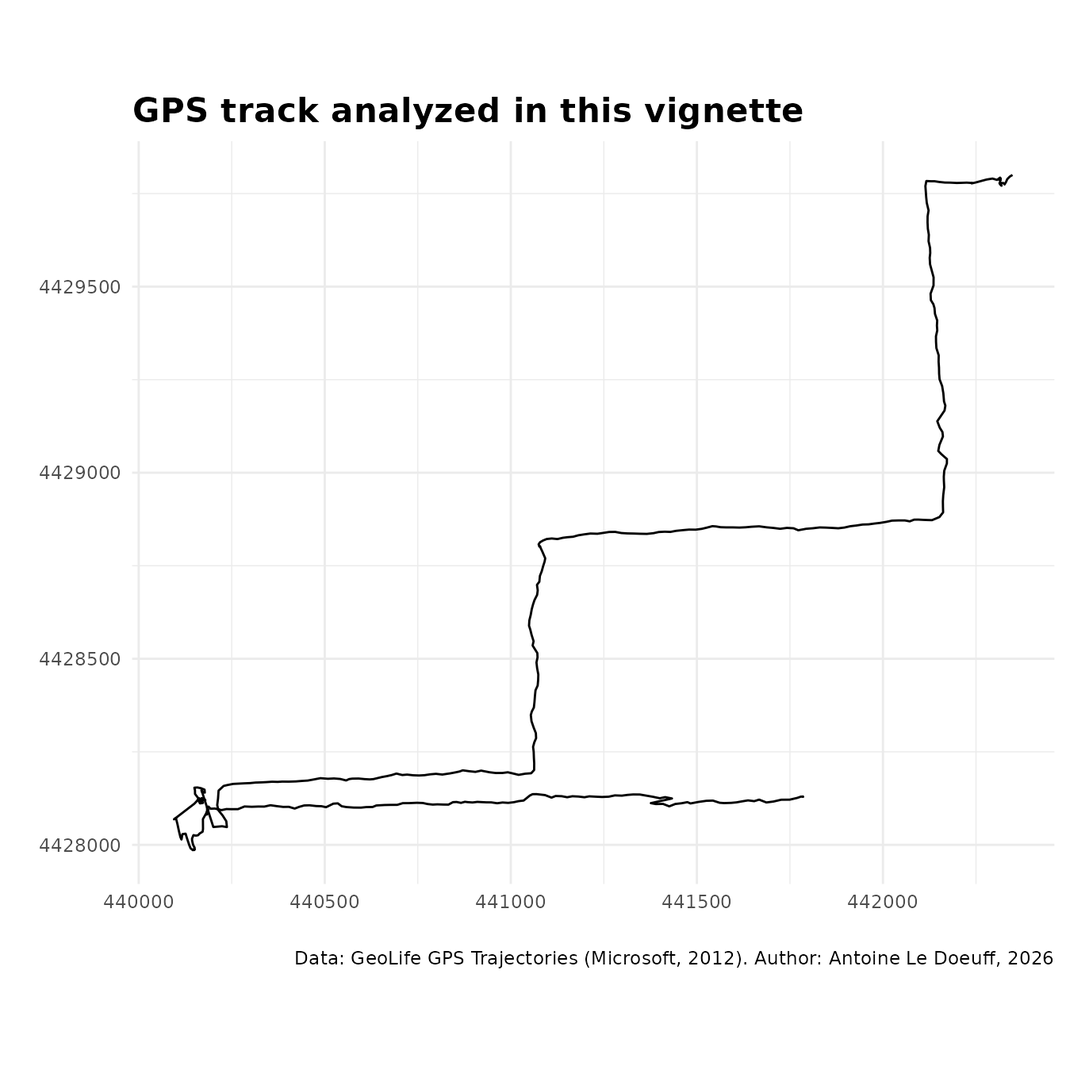
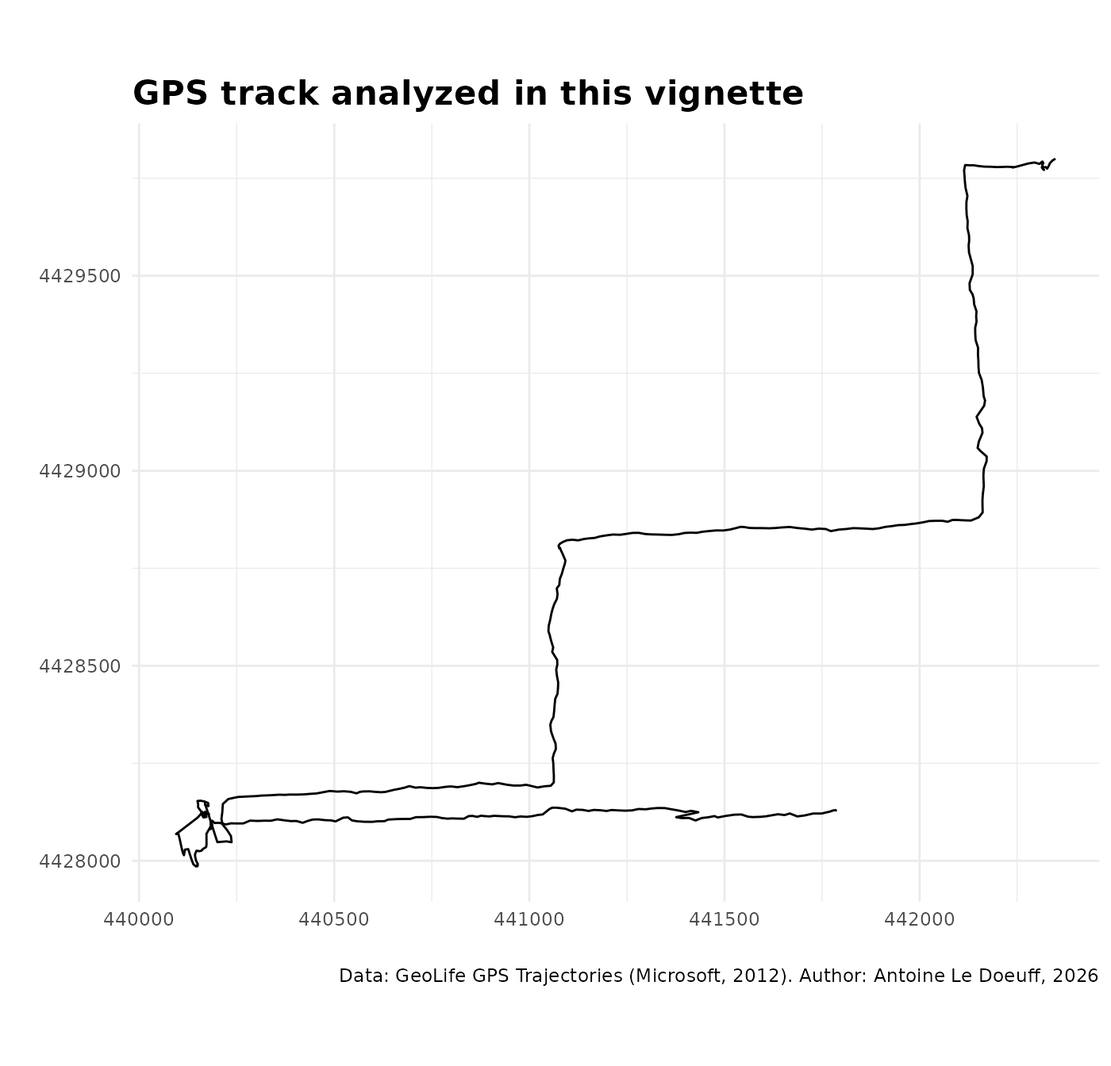
Deploying to gh-pages from @ MiboraMinima/stdbscan@7bb9fe0d11328031b59ec2f44600ff38f1b28a07 🚀

diff --git a/articles/stop-identification.html b/articles/stop-identification.html
@@ -99,13 +99,10 @@ the relevant variables.</p>
 <span><span class="co">#&gt; 3 2008-10-23 02:53:15 441782.8 4428129</span></span>
 <span><span class="co">#&gt; 4 2008-10-23 02:53:20 441780.1 4428130</span></span>
 <span><span class="co">#&gt; 5 2008-10-23 02:53:25 441769.6 4428126</span></span>
-<span><span class="co">#&gt; 6 2008-10-23 02:53:30 441749.3 4428121</span></span>
-<span></span>
-<span><span class="co"># Copy source data</span></span>
-<span><span class="va">dt</span> <span class="op">&lt;-</span> <span class="va">geolife_traj</span></span></code></pre></div>
+<span><span class="co">#&gt; 6 2008-10-23 02:53:30 441749.3 4428121</span></span></code></pre></div>
 <div class="sourceCode" id="cb3"><pre class="downlit sourceCode r">
 <code class="sourceCode R"><span><span class="fu"><a href="https://ggplot2.tidyverse.org/reference/ggplot.html" class="external-link">ggplot</a></span><span class="op">(</span><span class="op">)</span> <span class="op">+</span></span>
-<span>  <span class="fu"><a href="https://ggplot2.tidyverse.org/reference/geom_path.html" class="external-link">geom_path</a></span><span class="op">(</span>data <span class="op">=</span> <span class="va">dt</span>, <span class="fu"><a href="https://ggplot2.tidyverse.org/reference/aes.html" class="external-link">aes</a></span><span class="op">(</span><span class="va">x</span>, <span class="va">y</span><span class="op">)</span><span class="op">)</span> <span class="op">+</span></span>
+<span>  <span class="fu"><a href="https://ggplot2.tidyverse.org/reference/geom_path.html" class="external-link">geom_path</a></span><span class="op">(</span>data <span class="op">=</span> <span class="va">geolife_traj</span>, <span class="fu"><a href="https://ggplot2.tidyverse.org/reference/aes.html" class="external-link">aes</a></span><span class="op">(</span><span class="va">x</span>, <span class="va">y</span><span class="op">)</span><span class="op">)</span> <span class="op">+</span></span>
 <span>  <span class="fu"><a href="https://ggplot2.tidyverse.org/reference/labs.html" class="external-link">labs</a></span><span class="op">(</span>x <span class="op">=</span> <span class="st">""</span>, y <span class="op">=</span> <span class="st">""</span>,</span>
 <span>    title <span class="op">=</span> <span class="st">"GPS track analyzed in this vignette"</span>,</span>
 <span>    caption <span class="op">=</span> <span class="st">"Data: GeoLife GPS Trajectories (Microsoft, 2012). Author: Antoine Le Doeuff, 2026"</span>,</span>
@@ -113,7 +110,7 @@ the relevant variables.</p>
 <span>  <span class="fu"><a href="https://ggplot2.tidyverse.org/reference/coord_fixed.html" class="external-link">coord_equal</a></span><span class="op">(</span><span class="op">)</span> <span class="op">+</span></span>
 <span>  <span class="fu"><a href="https://ggplot2.tidyverse.org/reference/ggtheme.html" class="external-link">theme_minimal</a></span><span class="op">(</span><span class="op">)</span> <span class="op">+</span></span>
 <span>  <span class="fu"><a href="https://ggplot2.tidyverse.org/reference/theme.html" class="external-link">theme</a></span><span class="op">(</span>plot.title <span class="op">=</span> <span class="fu"><a href="https://ggplot2.tidyverse.org/reference/element.html" class="external-link">element_text</a></span><span class="op">(</span>size <span class="op">=</span> <span class="fl">16</span>, face <span class="op">=</span> <span class="st">"bold"</span><span class="op">)</span><span class="op">)</span></span></code></pre></div>
-<p><img src="stop-identification_files/figure-html/unnamed-chunk-3-1.png" class="r-plt" alt="" width="672"></p>
+<p><img src="stop-identification_files/figure-html/unnamed-chunk-3-1.png" class="r-plt" alt="" width="700"></p>
 </div>
 <div class="section level2">
 <h2 id="preprocessing">Preprocessing<a class="anchor" aria-label="anchor" href="#preprocessing"></a>
@@ -121,8 +118,12 @@ the relevant variables.</p>
 <p>For <code>stdbscan</code> to work, the time variable must be numeric.
 We therefore convert it to seconds since the beginning of the track.</p>
 <div class="sourceCode" id="cb4"><pre class="downlit sourceCode r">
-<code class="sourceCode R"><span><span class="va">dt</span><span class="op">$</span><span class="va">date_time</span> <span class="op">&lt;-</span> <span class="fu"><a href="https://lubridate.tidyverse.org/reference/as_date.html" class="external-link">as_datetime</a></span><span class="op">(</span><span class="fu"><a href="https://rdrr.io/r/base/paste.html" class="external-link">paste</a></span><span class="op">(</span><span class="va">dt</span><span class="op">$</span><span class="va">date</span>, <span class="va">dt</span><span class="op">$</span><span class="va">time</span><span class="op">)</span>, tz <span class="op">=</span> <span class="st">"GMT"</span><span class="op">)</span></span>
-<span><span class="va">dt</span><span class="op">$</span><span class="va">t</span> <span class="op">&lt;-</span> <span class="fu"><a href="https://rdrr.io/r/base/numeric.html" class="external-link">as.numeric</a></span><span class="op">(</span><span class="va">dt</span><span class="op">$</span><span class="va">date_time</span> <span class="op">-</span> <span class="fu"><a href="https://rdrr.io/r/base/Extremes.html" class="external-link">min</a></span><span class="op">(</span><span class="va">dt</span><span class="op">$</span><span class="va">date_time</span><span class="op">)</span><span class="op">)</span></span></code></pre></div>
+<code class="sourceCode R"><span><span class="va">geolife_traj</span><span class="op">$</span><span class="va">date_time</span> <span class="op">&lt;-</span> <span class="fu"><a href="https://lubridate.tidyverse.org/reference/as_date.html" class="external-link">as_datetime</a></span><span class="op">(</span></span>
+<span>  <span class="fu"><a href="https://rdrr.io/r/base/paste.html" class="external-link">paste</a></span><span class="op">(</span><span class="va">geolife_traj</span><span class="op">$</span><span class="va">date</span>, <span class="va">geolife_traj</span><span class="op">$</span><span class="va">time</span><span class="op">)</span>, tz <span class="op">=</span> <span class="st">"GMT"</span></span>
+<span><span class="op">)</span></span>
+<span><span class="va">geolife_traj</span><span class="op">$</span><span class="va">t</span> <span class="op">&lt;-</span> <span class="fu"><a href="https://rdrr.io/r/base/numeric.html" class="external-link">as.numeric</a></span><span class="op">(</span></span>
+<span>  <span class="va">geolife_traj</span><span class="op">$</span><span class="va">date_time</span> <span class="op">-</span> <span class="fu"><a href="https://rdrr.io/r/base/Extremes.html" class="external-link">min</a></span><span class="op">(</span><span class="va">geolife_traj</span><span class="op">$</span><span class="va">date_time</span><span class="op">)</span></span>
+<span><span class="op">)</span></span></code></pre></div>
 </div>
 <div class="section level2">
 <h2 id="run-st-dbscan">Run ST-DBSCAN<a class="anchor" aria-label="anchor" href="#run-st-dbscan"></a>
@@ -135,14 +136,14 @@ search (or similar tuning strategy) should be used to determine optimal
 values.</p>
 <div class="sourceCode" id="cb5"><pre class="downlit sourceCode r">
 <code class="sourceCode R"><span><span class="va">clusters</span> <span class="op">&lt;-</span> <span class="fu"><a href="../reference/st_dbscan.html">st_dbscan</a></span><span class="op">(</span></span>
-<span>  x <span class="op">=</span> <span class="va">dt</span><span class="op">$</span><span class="va">x</span>,</span>
-<span>  y <span class="op">=</span> <span class="va">dt</span><span class="op">$</span><span class="va">y</span>,</span>
-<span>  t <span class="op">=</span> <span class="va">dt</span><span class="op">$</span><span class="va">t</span>,</span>
+<span>  x <span class="op">=</span> <span class="va">geolife_traj</span><span class="op">$</span><span class="va">x</span>,</span>
+<span>  y <span class="op">=</span> <span class="va">geolife_traj</span><span class="op">$</span><span class="va">y</span>,</span>
+<span>  t <span class="op">=</span> <span class="va">geolife_traj</span><span class="op">$</span><span class="va">t</span>,</span>
 <span>  eps_spatial <span class="op">=</span> <span class="fl">3</span>, <span class="co"># meters</span></span>
 <span>  eps_temporal <span class="op">=</span> <span class="fl">30</span>, <span class="co"># seconds</span></span>
 <span>  min_pts <span class="op">=</span> <span class="fl">3</span></span>
 <span><span class="op">)</span></span>
-<span><span class="va">dt</span><span class="op">$</span><span class="va">clust</span> <span class="op">&lt;-</span> <span class="fu"><a href="https://rdrr.io/r/base/factor.html" class="external-link">as.factor</a></span><span class="op">(</span><span class="va">clusters</span><span class="op">)</span></span></code></pre></div>
+<span><span class="va">geolife_traj</span><span class="op">$</span><span class="va">clust</span> <span class="op">&lt;-</span> <span class="fu"><a href="https://rdrr.io/r/base/factor.html" class="external-link">as.factor</a></span><span class="op">(</span><span class="va">clusters</span><span class="op">)</span></span></code></pre></div>
 </div>
 <div class="section level2">
 <h2 id="check-result">Check result<a class="anchor" aria-label="anchor" href="#check-result"></a>
@@ -150,20 +151,20 @@ values.</p>
 <p>We can check the number of pings in each cluster using
 <code><a href="https://rdrr.io/r/base/table.html" class="external-link">table()</a></code>.</p>
 <div class="sourceCode" id="cb6"><pre class="downlit sourceCode r">
-<code class="sourceCode R"><span><span class="fu"><a href="https://rdrr.io/r/base/table.html" class="external-link">table</a></span><span class="op">(</span><span class="va">dt</span><span class="op">$</span><span class="va">clust</span><span class="op">)</span></span>
+<code class="sourceCode R"><span><span class="fu"><a href="https://rdrr.io/r/base/table.html" class="external-link">table</a></span><span class="op">(</span><span class="va">geolife_traj</span><span class="op">$</span><span class="va">clust</span><span class="op">)</span></span>
 <span><span class="co">#&gt; </span></span>
 <span><span class="co">#&gt;  -1   1   2   3   4   5 </span></span>
 <span><span class="co">#&gt; 420   4   5  12  12  15</span></span></code></pre></div>
 <p>Clusters can be plotted directly using <code>ggplot2</code> :</p>
 <div class="sourceCode" id="cb7"><pre class="downlit sourceCode r">
 <code class="sourceCode R"><span><span class="co"># Extract stops and movements</span></span>
-<span><span class="va">dt_mvt</span> <span class="op">&lt;-</span> <span class="va">dt</span><span class="op">[</span><span class="va">dt</span><span class="op">$</span><span class="va">clust</span> <span class="op">==</span> <span class="st">"-1"</span>, <span class="op">]</span></span>
-<span><span class="va">dt_stop</span> <span class="op">&lt;-</span> <span class="va">dt</span><span class="op">[</span><span class="va">dt</span><span class="op">$</span><span class="va">clust</span> <span class="op">!=</span> <span class="st">"-1"</span>, <span class="op">]</span></span>
+<span><span class="va">geolife_traj_mvt</span> <span class="op">&lt;-</span> <span class="va">geolife_traj</span><span class="op">[</span><span class="va">geolife_traj</span><span class="op">$</span><span class="va">clust</span> <span class="op">==</span> <span class="st">"-1"</span>, <span class="op">]</span></span>
+<span><span class="va">geolife_traj_stop</span> <span class="op">&lt;-</span> <span class="va">geolife_traj</span><span class="op">[</span><span class="va">geolife_traj</span><span class="op">$</span><span class="va">clust</span> <span class="op">!=</span> <span class="st">"-1"</span>, <span class="op">]</span></span>
 <span></span>
 <span><span class="co"># Plot</span></span>
 <span><span class="fu"><a href="https://ggplot2.tidyverse.org/reference/ggplot.html" class="external-link">ggplot</a></span><span class="op">(</span><span class="op">)</span> <span class="op">+</span></span>
-<span>  <span class="fu"><a href="https://ggplot2.tidyverse.org/reference/geom_path.html" class="external-link">geom_path</a></span><span class="op">(</span>data <span class="op">=</span> <span class="va">dt_mvt</span>, <span class="fu"><a href="https://ggplot2.tidyverse.org/reference/aes.html" class="external-link">aes</a></span><span class="op">(</span><span class="va">x</span>, <span class="va">y</span><span class="op">)</span><span class="op">)</span> <span class="op">+</span></span>
-<span>  <span class="fu"><a href="https://ggplot2.tidyverse.org/reference/geom_point.html" class="external-link">geom_point</a></span><span class="op">(</span>data <span class="op">=</span> <span class="va">dt_stop</span>, <span class="fu"><a href="https://ggplot2.tidyverse.org/reference/aes.html" class="external-link">aes</a></span><span class="op">(</span><span class="va">x</span>, <span class="va">y</span>, color <span class="op">=</span> <span class="va">clust</span><span class="op">)</span>, size <span class="op">=</span> <span class="fl">4</span><span class="op">)</span> <span class="op">+</span></span>
+<span>  <span class="fu"><a href="https://ggplot2.tidyverse.org/reference/geom_path.html" class="external-link">geom_path</a></span><span class="op">(</span>data <span class="op">=</span> <span class="va">geolife_traj_mvt</span>, <span class="fu"><a href="https://ggplot2.tidyverse.org/reference/aes.html" class="external-link">aes</a></span><span class="op">(</span><span class="va">x</span>, <span class="va">y</span><span class="op">)</span><span class="op">)</span> <span class="op">+</span></span>
+<span>  <span class="fu"><a href="https://ggplot2.tidyverse.org/reference/geom_point.html" class="external-link">geom_point</a></span><span class="op">(</span>data <span class="op">=</span> <span class="va">geolife_traj_stop</span>, <span class="fu"><a href="https://ggplot2.tidyverse.org/reference/aes.html" class="external-link">aes</a></span><span class="op">(</span><span class="va">x</span>, <span class="va">y</span>, color <span class="op">=</span> <span class="va">clust</span><span class="op">)</span>, size <span class="op">=</span> <span class="fl">4</span><span class="op">)</span> <span class="op">+</span></span>
 <span>  <span class="fu"><a href="https://ggplot2.tidyverse.org/reference/labs.html" class="external-link">labs</a></span><span class="op">(</span>x <span class="op">=</span> <span class="st">""</span>, y <span class="op">=</span> <span class="st">""</span>, color <span class="op">=</span> <span class="st">"stop ID"</span>,</span>
 <span>    title <span class="op">=</span> <span class="st">"ST-DBSCAN stop identification"</span>,</span>
 <span>    subtitle <span class="op">=</span> <span class="st">"eps_spatial = 3 m, eps_temporal = 30 s and min_pts = 3"</span>,</span>
@@ -176,31 +177,35 @@ values.</p>
 <span>    legend.position <span class="op">=</span> <span class="st">"bottom"</span>,</span>
 <span>    plot.title <span class="op">=</span> <span class="fu"><a href="https://ggplot2.tidyverse.org/reference/element.html" class="external-link">element_text</a></span><span class="op">(</span>size <span class="op">=</span> <span class="fl">16</span>, face <span class="op">=</span> <span class="st">"bold"</span><span class="op">)</span>,</span>
 <span>  <span class="op">)</span></span></code></pre></div>
-<p><img src="stop-identification_files/figure-html/unnamed-chunk-7-1.png" class="r-plt" alt="" width="672"></p>
+<p><img src="stop-identification_files/figure-html/unnamed-chunk-7-1.png" class="r-plt" alt="" width="700"></p>
 <p>Clusters can be visualized in 3D using <code>plotly</code> :</p>
 <div class="sourceCode" id="cb8"><pre class="downlit sourceCode r">
 <code class="sourceCode R"><span><span class="co"># Zoom on stop 4</span></span>
-<span><span class="va">dt_f</span> <span class="op">&lt;-</span> <span class="va">dt</span><span class="op">[</span><span class="va">dt</span><span class="op">$</span><span class="va">x</span> <span class="op">&gt;</span> <span class="fl">441060</span> <span class="op">&amp;</span> <span class="va">dt</span><span class="op">$</span><span class="va">x</span> <span class="op">&lt;</span> <span class="fl">441100</span>, <span class="op">]</span></span>
-<span><span class="va">dt_f</span> <span class="op">&lt;-</span> <span class="va">dt_f</span><span class="op">[</span><span class="va">dt_f</span><span class="op">$</span><span class="va">y</span> <span class="op">&gt;</span> <span class="fl">4428780</span> <span class="op">&amp;</span> <span class="va">dt_f</span><span class="op">$</span><span class="va">y</span> <span class="op">&lt;</span> <span class="fl">4428820</span>, <span class="op">]</span></span>
+<span><span class="va">geolife_traj_f</span> <span class="op">&lt;-</span> <span class="va">geolife_traj</span><span class="op">[</span></span>
+<span>  <span class="va">geolife_traj</span><span class="op">$</span><span class="va">x</span> <span class="op">&gt;</span> <span class="fl">441060</span> <span class="op">&amp;</span> <span class="va">geolife_traj</span><span class="op">$</span><span class="va">x</span> <span class="op">&lt;</span> <span class="fl">441100</span>,</span>
+<span><span class="op">]</span></span>
+<span><span class="va">geolife_traj_f</span> <span class="op">&lt;-</span> <span class="va">geolife_traj_f</span><span class="op">[</span></span>
+<span>  <span class="va">geolife_traj_f</span><span class="op">$</span><span class="va">y</span> <span class="op">&gt;</span> <span class="fl">4428780</span> <span class="op">&amp;</span> <span class="va">geolife_traj_f</span><span class="op">$</span><span class="va">y</span> <span class="op">&lt;</span> <span class="fl">4428820</span>,</span>
+<span><span class="op">]</span></span>
 <span></span>
 <span><span class="co"># Extract stop</span></span>
-<span><span class="va">dt_f_stop</span> <span class="op">&lt;-</span> <span class="va">dt_f</span><span class="op">[</span><span class="va">dt_f</span><span class="op">$</span><span class="va">clust</span> <span class="op">!=</span> <span class="st">"-1"</span>, <span class="op">]</span></span>
+<span><span class="va">geolife_traj_f_stop</span> <span class="op">&lt;-</span> <span class="va">geolife_traj_f</span><span class="op">[</span><span class="va">geolife_traj_f</span><span class="op">$</span><span class="va">clust</span> <span class="op">!=</span> <span class="st">"-1"</span>, <span class="op">]</span></span>
 <span></span>
 <span><span class="co"># Plotly figure</span></span>
 <span><span class="va">fig</span> <span class="op">&lt;-</span> <span class="fu"><a href="https://rdrr.io/pkg/plotly/man/plot_ly.html" class="external-link">plot_ly</a></span><span class="op">(</span></span>
-<span>  data <span class="op">=</span> <span class="va">dt_f</span>,</span>
+<span>  data <span class="op">=</span> <span class="va">geolife_traj_f</span>,</span>
 <span>  x <span class="op">=</span> <span class="op">~</span><span class="va">x</span>,</span>
 <span>  y <span class="op">=</span> <span class="op">~</span><span class="va">y</span>,</span>
 <span>  z <span class="op">=</span> <span class="op">~</span><span class="va">t</span>,</span>
 <span>  type <span class="op">=</span> <span class="st">"scatter3d"</span>, mode <span class="op">=</span> <span class="st">"lines+markers"</span>,</span>
-<span>  line <span class="op">=</span> <span class="fu"><a href="https://rdrr.io/r/base/list.html" class="external-link">list</a></span><span class="op">(</span>width <span class="op">=</span> <span class="fl">4</span>, color <span class="op">=</span> <span class="st">"grey"</span><span class="op">)</span>,</span>
+<span>  line <span class="op">=</span> <span class="fu"><a href="https://rdrr.io/r/base/list.html" class="external-link">list</a></span><span class="op">(</span>wigeolife_trajh <span class="op">=</span> <span class="fl">4</span>, color <span class="op">=</span> <span class="st">"grey"</span><span class="op">)</span>,</span>
 <span>  marker <span class="op">=</span> <span class="fu"><a href="https://rdrr.io/r/base/list.html" class="external-link">list</a></span><span class="op">(</span>size <span class="op">=</span> <span class="fl">3</span>, color <span class="op">=</span> <span class="st">"grey"</span><span class="op">)</span></span>
 <span><span class="op">)</span></span>
 <span><span class="va">fig</span> <span class="op">|&gt;</span></span>
 <span>  <span class="fu"><a href="https://rdrr.io/pkg/plotly/man/add_trace.html" class="external-link">add_markers</a></span><span class="op">(</span></span>
-<span>    x <span class="op">=</span> <span class="op">~</span><span class="va">dt_f_stop</span><span class="op">$</span><span class="va">x</span>,</span>
-<span>    y <span class="op">=</span> <span class="op">~</span><span class="va">dt_f_stop</span><span class="op">$</span><span class="va">y</span>,</span>
-<span>    z <span class="op">=</span> <span class="op">~</span><span class="va">dt_f_stop</span><span class="op">$</span><span class="va">t</span>,</span>
+<span>    x <span class="op">=</span> <span class="op">~</span><span class="va">geolife_traj_f_stop</span><span class="op">$</span><span class="va">x</span>,</span>
+<span>    y <span class="op">=</span> <span class="op">~</span><span class="va">geolife_traj_f_stop</span><span class="op">$</span><span class="va">y</span>,</span>
+<span>    z <span class="op">=</span> <span class="op">~</span><span class="va">geolife_traj_f_stop</span><span class="op">$</span><span class="va">t</span>,</span>
 <span>    marker <span class="op">=</span> <span class="fu"><a href="https://rdrr.io/r/base/list.html" class="external-link">list</a></span><span class="op">(</span>size <span class="op">=</span> <span class="fl">4</span>, color <span class="op">=</span> <span class="st">'red'</span><span class="op">)</span>,</span>
 <span>    name <span class="op">=</span> <span class="st">'Stop'</span></span>
 <span>  <span class="op">)</span> <span class="op">|&gt;</span></span>
@@ -212,7 +217,7 @@ values.</p>
 <span>  <span class="op">)</span></span>
 <span><span class="op">)</span></span></code></pre></div>
 <div class="plotly html-widget html-fill-item" id="htmlwidget-ac96cb3ee4656e2e9ec3" style="width:700px;height:432.632880098888px;"></div>
-<script type="application/json" data-for="htmlwidget-ac96cb3ee4656e2e9ec3">{"x":{"visdat":{"1c1bbab2910":["function () ","plotlyVisDat"]},"cur_data":"1c1bbab2910","attrs":{"1c1bbab2910":{"x":{},"y":{},"z":{},"mode":"lines+markers","line":{"width":4,"color":"grey"},"marker":{"size":3,"color":"grey"},"alpha_stroke":1,"sizes":[10,100],"spans":[1,20],"type":"scatter3d"},"1c1bbab2910.1":{"x":{},"y":{},"z":{},"mode":"markers","line":{"width":4,"color":"grey"},"marker":{"size":4,"color":"red"},"alpha_stroke":1,"sizes":[10,100],"spans":[1,20],"type":"scatter3d","name":"Stop","inherit":true}},"layout":{"margin":{"b":40,"l":60,"t":25,"r":10},"scene":{"xaxis":{"title":"x"},"yaxis":{"title":"y"},"zaxis":{"title":"t"}},"hovermode":"closest","showlegend":true},"source":"A","config":{"modeBarButtonsToAdd":["hoverclosest","hovercompare"],"showSendToCloud":false},"data":[{"x":[441085.11599524895,441080.4104716641,441078.73925982724,441078.48561374075,441077.97488450893,441077.8040685812,441077.63153408136,441077.11822699063,441076.85942519293,441076.68689065095,441076.51521539781,441076.42980742484,441076.42980742484,441076.69204645528,441074.68264382833,441078.39814777253,441086.63510392181],"y":[4428787.1104895528,4428797.1409004778,4428801.9287440563,4428802.2638402423,4428802.4898814643,4428802.49120335,4428802.2704496514,4428802.1633775504,4428801.8322470281,4428801.6114933509,4428801.501777472,4428801.5024384297,4428801.5024384297,4428802.2777201124,4428807.5123596741,4428813.0358281927,4428817.8580455137],"z":[5233,5238,5243,5248,5253,5258,5263,5268,5273,5278,5283,5288,5291,5293,5298,5303,5308],"mode":"lines+markers","line":{"color":"grey","width":4},"marker":{"color":"grey","size":3,"line":{"color":"rgba(31,119,180,1)"}},"type":"scatter3d","error_y":{"color":"rgba(31,119,180,1)"},"error_x":{"color":"rgba(31,119,180,1)"},"frame":null},{"x":[441078.73925982724,441078.48561374075,441077.97488450893,441077.8040685812,441077.63153408136,441077.11822699063,441076.85942519293,441076.68689065095,441076.51521539781,441076.42980742484,441076.42980742484,441076.69204645528],"y":[4428801.9287440563,4428802.2638402423,4428802.4898814643,4428802.49120335,4428802.2704496514,4428802.1633775504,4428801.8322470281,4428801.6114933509,4428801.501777472,4428801.5024384297,4428801.5024384297,4428802.2777201124],"z":[5243,5248,5253,5258,5263,5268,5273,5278,5283,5288,5291,5293],"mode":"markers+lines","line":{"color":"grey","width":4},"marker":{"color":"red","size":4,"line":{"color":"rgba(255,127,14,1)"}},"type":"scatter3d","name":"Stop","error_y":{"color":"rgba(255,127,14,1)"},"error_x":{"color":"rgba(255,127,14,1)"},"frame":null}],"highlight":{"on":"plotly_click","persistent":false,"dynamic":false,"selectize":false,"opacityDim":0.20000000000000001,"selected":{"opacity":1},"debounce":0},"shinyEvents":["plotly_hover","plotly_click","plotly_selected","plotly_relayout","plotly_brushed","plotly_brushing","plotly_clickannotation","plotly_doubleclick","plotly_deselect","plotly_afterplot","plotly_sunburstclick"],"base_url":"https://plot.ly"},"evals":[],"jsHooks":[]}</script>
+<script type="application/json" data-for="htmlwidget-ac96cb3ee4656e2e9ec3">{"x":{"visdat":{"1c07421f55f1":["function () ","plotlyVisDat"]},"cur_data":"1c07421f55f1","attrs":{"1c07421f55f1":{"x":{},"y":{},"z":{},"mode":"lines+markers","line":{"wigeolife_trajh":4,"color":"grey"},"marker":{"size":3,"color":"grey"},"alpha_stroke":1,"sizes":[10,100],"spans":[1,20],"type":"scatter3d"},"1c07421f55f1.1":{"x":{},"y":{},"z":{},"mode":"markers","line":{"wigeolife_trajh":4,"color":"grey"},"marker":{"size":4,"color":"red"},"alpha_stroke":1,"sizes":[10,100],"spans":[1,20],"type":"scatter3d","name":"Stop","inherit":true}},"layout":{"margin":{"b":40,"l":60,"t":25,"r":10},"scene":{"xaxis":{"title":"x"},"yaxis":{"title":"y"},"zaxis":{"title":"t"}},"hovermode":"closest","showlegend":true},"source":"A","config":{"modeBarButtonsToAdd":["hoverclosest","hovercompare"],"showSendToCloud":false},"data":[{"x":[441085.11599524895,441080.4104716641,441078.73925982724,441078.48561374075,441077.97488450893,441077.8040685812,441077.63153408136,441077.11822699063,441076.85942519293,441076.68689065095,441076.51521539781,441076.42980742484,441076.42980742484,441076.69204645528,441074.68264382833,441078.39814777253,441086.63510392181],"y":[4428787.1104895528,4428797.1409004778,4428801.9287440563,4428802.2638402423,4428802.4898814643,4428802.49120335,4428802.2704496514,4428802.1633775504,4428801.8322470281,4428801.6114933509,4428801.501777472,4428801.5024384297,4428801.5024384297,4428802.2777201124,4428807.5123596741,4428813.0358281927,4428817.8580455137],"z":[5233,5238,5243,5248,5253,5258,5263,5268,5273,5278,5283,5288,5291,5293,5298,5303,5308],"mode":"lines+markers","line":{"color":"grey","wigeolife_trajh":4},"marker":{"color":"grey","size":3,"line":{"color":"rgba(31,119,180,1)"}},"type":"scatter3d","error_y":{"color":"rgba(31,119,180,1)"},"error_x":{"color":"rgba(31,119,180,1)"},"frame":null},{"x":[441078.73925982724,441078.48561374075,441077.97488450893,441077.8040685812,441077.63153408136,441077.11822699063,441076.85942519293,441076.68689065095,441076.51521539781,441076.42980742484,441076.42980742484,441076.69204645528],"y":[4428801.9287440563,4428802.2638402423,4428802.4898814643,4428802.49120335,4428802.2704496514,4428802.1633775504,4428801.8322470281,4428801.6114933509,4428801.501777472,4428801.5024384297,4428801.5024384297,4428802.2777201124],"z":[5243,5248,5253,5258,5263,5268,5273,5278,5283,5288,5291,5293],"mode":"markers+lines","line":{"color":"grey","wigeolife_trajh":4},"marker":{"color":"red","size":4,"line":{"color":"rgba(255,127,14,1)"}},"type":"scatter3d","name":"Stop","error_y":{"color":"rgba(255,127,14,1)"},"error_x":{"color":"rgba(255,127,14,1)"},"frame":null}],"highlight":{"on":"plotly_click","persistent":false,"dynamic":false,"selectize":false,"opacityDim":0.20000000000000001,"selected":{"opacity":1},"debounce":0},"shinyEvents":["plotly_hover","plotly_click","plotly_selected","plotly_relayout","plotly_brushed","plotly_brushing","plotly_clickannotation","plotly_doubleclick","plotly_deselect","plotly_afterplot","plotly_sunburstclick"],"base_url":"https://plot.ly"},"evals":[],"jsHooks":[]}</script>
 </div>
   </main><aside class="col-md-3"><nav id="toc" aria-label="Table of contents"><h2>On this page</h2>
     </nav></aside>
